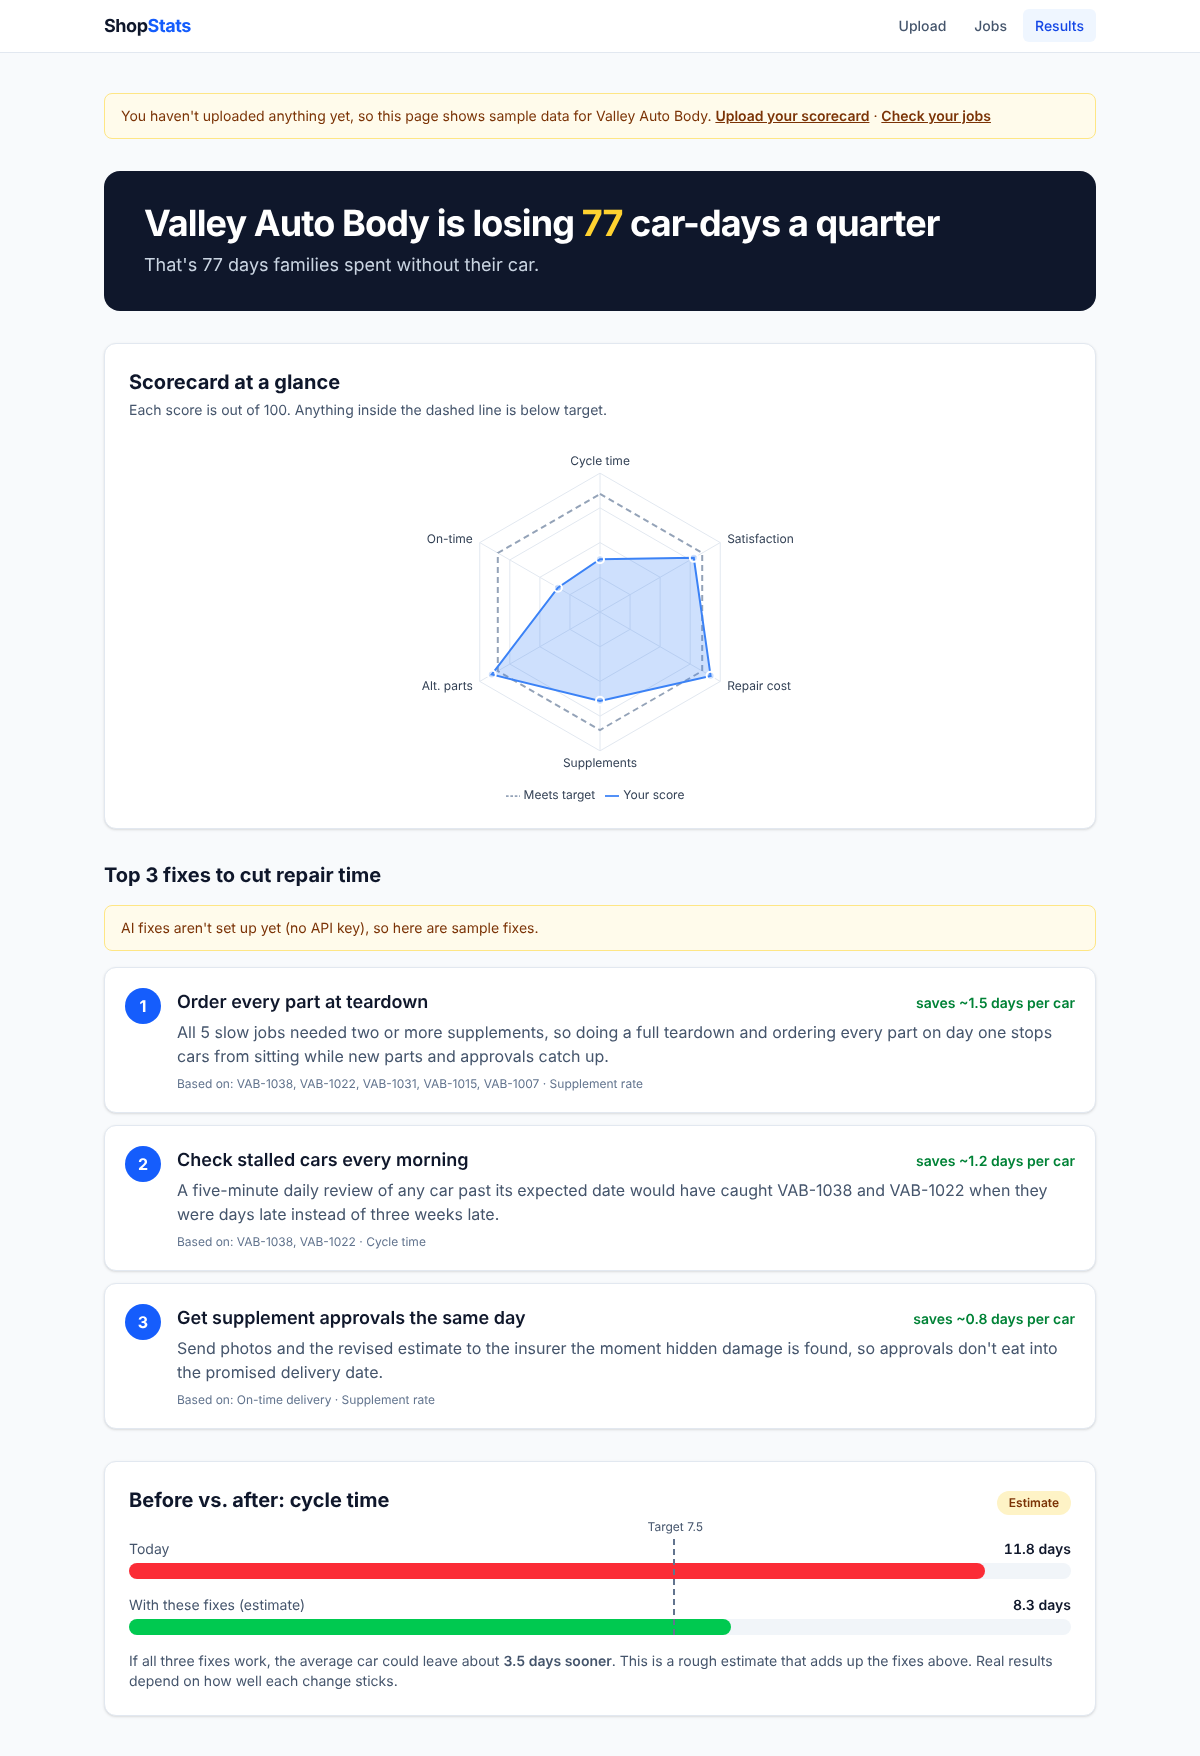
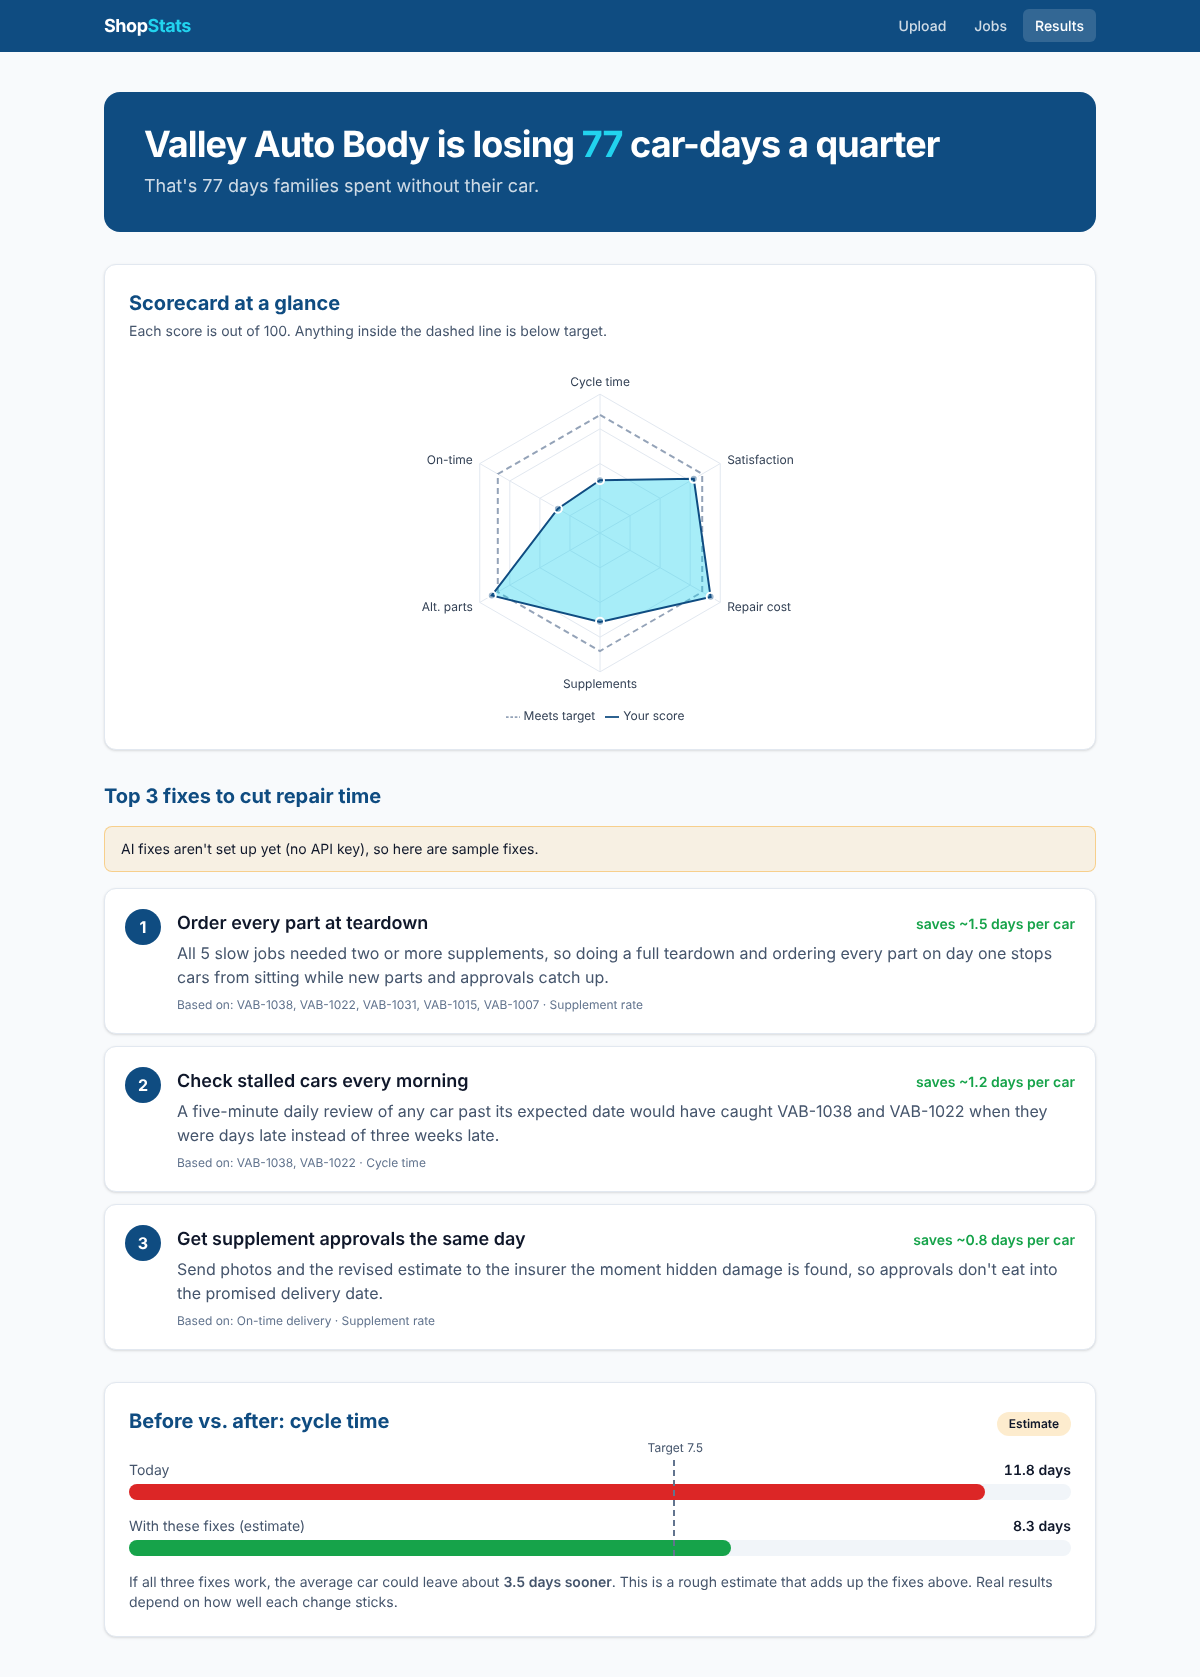
Unify app color scheme with Tailwind theme tokens
- Define primary, accent, danger, warning, success, page and ink once in
  app/globals.css (@theme static); classes and Recharts SVG both use them
- Nav, buttons and headings use primary; radar fill and banner highlight
  use accent; outliers and below-target use danger
- Metric cards get a status chip (Below target / Close / Meets target) and
  a status-colored bar; amber is never used as text color (2.1:1 on white)
- Mock scorecard keeps its insurer branding on purpose

Claude-Session: https://claude.ai/code/session_01JbLRywYRtfGEKdzAwmGt8E

diff --git a/app/results/page.tsx b/app/results/page.tsx
@@ -108,20 +108,20 @@ function SampleNote({ sampleScores, sampleJobs }: Pick<Inputs, "sampleScores" | 
 function Banner({ jobs }: { jobs: AnomalyResult | null }) {
   const days = jobs?.totalExtraDays ?? 0;
   return (
-    <section className="rounded-2xl bg-slate-900 px-6 py-8 text-white sm:px-10">
+    <section className="rounded-2xl bg-primary px-6 py-8 text-white sm:px-10">
       {days > 0 ? (
         <>
           <h1 className="text-3xl font-bold tracking-tight sm:text-4xl">
-            {SHOP_NAME} is losing <span className="text-amber-300">{days}</span> car-days a quarter
+            {SHOP_NAME} is losing <span className="text-accent">{days}</span> car-days a quarter
           </h1>
-          <p className="mt-2 text-lg text-slate-300">
+          <p className="mt-2 text-lg text-white/80">
             That&apos;s {days} days families spent without their car.
           </p>
         </>
       ) : (
         <>
           <h1 className="text-3xl font-bold tracking-tight sm:text-4xl">{SHOP_NAME}&apos;s results</h1>
-          <p className="mt-2 text-lg text-slate-300">No jobs ran unusually long. Here&apos;s how your scorecard looks.</p>
+          <p className="mt-2 text-lg text-white/80">No jobs ran unusually long. Here&apos;s how your scorecard looks.</p>
         </>
       )}
     </section>
@@ -131,13 +131,13 @@ function Banner({ jobs }: { jobs: AnomalyResult | null }) {
 function FixCard({ fix, rank }: { fix: Fix; rank: number }) {
   return (
     <li className="flex gap-4 rounded-xl border border-slate-200 bg-white p-5 shadow-sm">
-      <span className="flex h-9 w-9 shrink-0 items-center justify-center rounded-full bg-blue-600 font-bold text-white">
+      <span className="flex h-9 w-9 shrink-0 items-center justify-center rounded-full bg-primary font-bold text-white">
         {rank}
       </span>
       <div className="min-w-0 flex-1">
         <div className="flex flex-wrap items-baseline justify-between gap-x-4 gap-y-1">
-          <h3 className="text-lg font-semibold text-slate-900">{fix.title}</h3>
-          <span className="text-sm font-semibold whitespace-nowrap text-green-700">
+          <h3 className="text-lg font-semibold text-ink">{fix.title}</h3>
+          <span className="text-sm font-semibold whitespace-nowrap text-success">
             saves ~{fix.daysSaved} day{fix.daysSaved === 1 ? "" : "s"} per car
           </span>
         </div>
@@ -155,22 +155,22 @@ function BeforeAfter({ cycle, fixes }: { cycle: Metric; fixes: Fix[] }) {
   const projected = Math.round(Math.max(current * 0.5, current - saved) * 10) / 10;
   const scaleMax = Math.max(current, cycle.target) * 1.1;
   const rows = [
-    { label: "Today", value: current, color: "bg-red-500" },
-    { label: "With these fixes (estimate)", value: projected, color: "bg-green-500" },
+    { label: "Today", value: current, color: "bg-danger" },
+    { label: "With these fixes (estimate)", value: projected, color: "bg-success" },
   ];
 
   return (
     <section className="rounded-xl border border-slate-200 bg-white p-6 shadow-sm">
       <div className="flex flex-wrap items-baseline justify-between gap-2">
-        <h2 className="text-xl font-bold text-slate-900">Before vs. after: cycle time</h2>
-        <span className="rounded-full bg-amber-100 px-3 py-1 text-xs font-semibold text-amber-900">Estimate</span>
+        <h2 className="text-xl font-bold text-primary">Before vs. after: cycle time</h2>
+        <span className="rounded-full bg-warning/20 px-3 py-1 text-xs font-semibold text-ink">Estimate</span>
       </div>
       <div className="relative mt-6 space-y-4">
         {rows.map((r) => (
           <div key={r.label}>
             <div className="flex justify-between text-sm">
               <span className="text-slate-600">{r.label}</span>
-              <span className="font-semibold text-slate-900 tabular-nums">{r.value.toFixed(1)} days</span>
+              <span className="font-semibold text-ink tabular-nums">{r.value.toFixed(1)} days</span>
             </div>
             <div className="mt-1 h-4 rounded-full bg-slate-100">
               <div className={`h-full rounded-full ${r.color}`} style={{ width: `${(r.value / scaleMax) * 100}%` }} />
@@ -229,13 +229,13 @@ export default function ResultsPage() {
       <Banner jobs={inputs.jobs} />
 
       <section className="rounded-xl border border-slate-200 bg-white p-6 shadow-sm">
-        <h2 className="text-xl font-bold text-slate-900">Scorecard at a glance</h2>
+        <h2 className="text-xl font-bold text-primary">Scorecard at a glance</h2>
         <p className="mt-1 text-sm text-slate-600">Each score is out of 100. Anything inside the dashed line is below target.</p>
         <ScoreRadar metrics={inputs.metrics} />
       </section>
 
       <section>
-        <h2 className="text-xl font-bold text-slate-900">Top 3 fixes to cut repair time</h2>
+        <h2 className="text-xl font-bold text-primary">Top 3 fixes to cut repair time</h2>
         {!fixes ? (
           <div className="mt-4 rounded-xl border border-slate-200 bg-white p-6">
             <Spinner label="Asking AI for your top fixes… this takes about 10–20 seconds." />

diff --git a/app/jobs/page.tsx b/app/jobs/page.tsx
@@ -88,14 +88,14 @@ export default function JobsPage() {
 
   return (
     <main className="mx-auto max-w-5xl px-4 py-10">
-      <h1 className="text-3xl font-bold tracking-tight text-slate-900">Find the jobs that dragged on</h1>
+      <h1 className="text-3xl font-bold tracking-tight text-primary">Find the jobs that dragged on</h1>
       <p className="mt-2 text-slate-600">
         Upload a CSV of recent repair jobs. We compare each job&apos;s days in the shop to what its labor hours
         predict and flag the ones that took far longer.
       </p>
 
       <div className="mt-6 flex flex-wrap items-center gap-3">
-        <label className="cursor-pointer rounded-lg bg-blue-600 px-5 py-2.5 font-semibold text-white transition-colors hover:bg-blue-700">
+        <label className="cursor-pointer rounded-lg bg-primary px-5 py-2.5 font-semibold text-white transition-colors hover:bg-primary-hover">
           Upload jobs.csv
           <input
             type="file"
@@ -138,7 +138,7 @@ export default function JobsPage() {
               Analyzed {result.jobs.length} jobs from {source}
               {skipped > 0 && ` · skipped ${skipped} row${skipped === 1 ? "" : "s"} with missing numbers`}
             </p>
-            <p className="mt-1 text-2xl font-bold text-slate-900">{summary(result)}</p>
+            <p className="mt-1 text-2xl font-bold text-ink">{summary(result)}</p>
             <p className="mt-1 text-sm text-slate-600">
               A typical job here takes about {result.fit.baseDays} days plus{" "}
               {(result.fit.daysPerLaborHour * 10).toFixed(1)} days for every 10 labor hours.
@@ -146,14 +146,14 @@ export default function JobsPage() {
           </div>
 
           <div className="rounded-xl border border-slate-200 bg-white p-4 shadow-sm">
-            <h2 className="px-2 font-semibold text-slate-900">Labor hours vs. days in shop</h2>
+            <h2 className="px-2 font-semibold text-primary">Labor hours vs. days in shop</h2>
             <JobsScatter result={result} />
           </div>
 
           {result.flagged.length > 0 && (
             <div className="overflow-x-auto rounded-xl border border-slate-200 bg-white shadow-sm">
               <table className="w-full text-sm">
-                <caption className="px-4 pt-4 text-left font-semibold text-slate-900">Flagged jobs</caption>
+                <caption className="px-4 pt-4 text-left font-semibold text-primary">Flagged jobs</caption>
                 <thead>
                   <tr className="border-b border-slate-200 text-left text-xs text-slate-500 uppercase">
                     <th className="px-4 py-3 font-semibold">Job ID</th>
@@ -166,11 +166,11 @@ export default function JobsPage() {
                 <tbody>
                   {result.flagged.map((j) => (
                     <tr key={j.jobId} className="border-b border-slate-100 last:border-0">
-                      <td className="px-4 py-3 font-medium text-slate-900">{j.jobId}</td>
+                      <td className="px-4 py-3 font-medium text-ink">{j.jobId}</td>
                       <td className="px-4 py-3 text-right tabular-nums">{j.laborHours}</td>
                       <td className="px-4 py-3 text-right tabular-nums">{j.daysInShop}</td>
                       <td className="px-4 py-3 text-right tabular-nums text-slate-600">{j.expectedDays.toFixed(1)}</td>
-                      <td className="px-4 py-3 text-right font-semibold tabular-nums text-red-700">
+                      <td className="px-4 py-3 text-right font-semibold tabular-nums text-danger">
                         +{j.extraDays.toFixed(1)}
                       </td>
                     </tr>
@@ -181,7 +181,7 @@ export default function JobsPage() {
           )}
 
           <div className="flex justify-end">
-            <Link href="/results" className="text-sm font-semibold text-blue-600 hover:text-blue-800">
+            <Link href="/results" className="text-sm font-semibold text-primary hover:text-primary-hover">
               Next: see your results →
             </Link>
           </div>

diff --git a/app/upload/page.tsx b/app/upload/page.tsx
@@ -49,7 +49,7 @@ export default function UploadPage() {
 
   return (
     <main className="mx-auto max-w-5xl px-4 py-10">
-      <h1 className="text-3xl font-bold tracking-tight text-slate-900">Upload your insurer scorecard</h1>
+      <h1 className="text-3xl font-bold tracking-tight text-primary">Upload your insurer scorecard</h1>
       <p className="mt-2 text-slate-600">
         Drop in a photo, screenshot, or PDF of your scorecard. We&apos;ll score each metric and explain it in plain
         English.
@@ -67,18 +67,18 @@ export default function UploadPage() {
           pick(e.dataTransfer.files[0]);
         }}
         className={`mt-6 flex cursor-pointer flex-col items-center justify-center rounded-xl border-2 border-dashed px-6 py-12 text-center transition-colors ${
-          dragging ? "border-blue-500 bg-blue-50" : "border-slate-300 bg-white hover:border-slate-400"
+          dragging ? "border-primary bg-primary/5" : "border-slate-300 bg-white hover:border-slate-400"
         }`}
       >
         <input type="file" accept={ACCEPT} className="sr-only" onChange={(e) => pick(e.target.files?.[0])} />
         {file ? (
           <>
-            <p className="font-medium text-slate-900">{file.name}</p>
+            <p className="font-medium text-ink">{file.name}</p>
             <p className="mt-1 text-sm text-slate-500">{(file.size / 1024).toFixed(0)} KB · click to choose another</p>
           </>
         ) : (
           <>
-            <p className="font-medium text-slate-900">Drag a file here, or click to choose</p>
+            <p className="font-medium text-ink">Drag a file here, or click to choose</p>
             <p className="mt-1 text-sm text-slate-500">PNG, JPG, WebP, GIF, or PDF · up to 10 MB</p>
           </>
         )}
@@ -88,7 +88,7 @@ export default function UploadPage() {
         <button
           onClick={submit}
           disabled={!file || loading}
-          className="rounded-lg bg-blue-600 px-5 py-2.5 font-semibold text-white transition-colors hover:bg-blue-700 disabled:cursor-not-allowed disabled:bg-slate-300"
+          className="rounded-lg bg-primary px-5 py-2.5 font-semibold text-white transition-colors hover:bg-primary-hover disabled:cursor-not-allowed disabled:bg-slate-300"
         >
           Score my scorecard
         </button>
@@ -109,8 +109,8 @@ export default function UploadPage() {
             </div>
           )}
           <div className="flex items-baseline justify-between">
-            <h2 className="text-xl font-bold text-slate-900">Your scores</h2>
-            <Link href="/jobs" className="text-sm font-semibold text-blue-600 hover:text-blue-800">
+            <h2 className="text-xl font-bold text-primary">Your scores</h2>
+            <Link href="/jobs" className="text-sm font-semibold text-primary hover:text-primary-hover">
               Next: check your jobs →
             </Link>
           </div>

diff --git a/components/MetricCard.tsx b/components/MetricCard.tsx
@@ -1,35 +1,35 @@
-import { formatValue, meetsTarget } from "@/lib/format";
+import { formatValue } from "@/lib/format";
+import { metricStatus, STATUS_STYLES } from "@/lib/status";
 import type { Metric } from "@/lib/types";
 
-function scoreColor(score: number) {
-  if (score >= 85) return { bar: "bg-green-500", text: "text-green-700" };
-  if (score >= 65) return { bar: "bg-amber-500", text: "text-amber-700" };
-  return { bar: "bg-red-500", text: "text-red-700" };
-}
-
 export default function MetricCard({ metric }: { metric: Metric }) {
-  const ok = meetsTarget(metric);
-  const color = scoreColor(metric.score);
+  const status = metricStatus(metric);
+  const style = STATUS_STYLES[status];
 
   return (
     <div className="flex flex-col rounded-xl border border-slate-200 bg-white p-5 shadow-sm">
       <div className="flex items-start justify-between gap-3">
-        <h3 className="font-semibold text-slate-900">{metric.label}</h3>
-        <span className={`text-2xl font-bold tabular-nums ${color.text}`}>{metric.score}</span>
+        <div>
+          <h3 className="font-semibold text-ink">{metric.label}</h3>
+          <span className={`mt-1 inline-block rounded-full px-2 py-0.5 text-xs font-semibold ${style.chip}`}>
+            {style.label}
+          </span>
+        </div>
+        <span className="text-2xl font-bold text-ink tabular-nums">{metric.score}</span>
       </div>
-      <div className="mt-2 h-2 overflow-hidden rounded-full bg-slate-100">
-        <div className={`h-full ${color.bar}`} style={{ width: `${metric.score}%` }} />
+      <div className="mt-3 h-2 overflow-hidden rounded-full bg-slate-100">
+        <div className={`h-full ${style.bar}`} style={{ width: `${metric.score}%` }} />
       </div>
       <dl className="mt-3 flex gap-6 text-sm">
         <div>
           <dt className="text-slate-500">You</dt>
-          <dd className={`font-semibold ${ok ? "text-slate-900" : "text-red-700"}`}>
+          <dd className={`font-semibold ${status === "below" ? "text-danger" : "text-ink"}`}>
             {formatValue(metric.shopValue, metric.unit)}
           </dd>
         </div>
         <div>
           <dt className="text-slate-500">Target</dt>
-          <dd className="font-semibold text-slate-900">{formatValue(metric.target, metric.unit)}</dd>
+          <dd className="font-semibold text-ink">{formatValue(metric.target, metric.unit)}</dd>
         </div>
       </dl>
       <p className="mt-3 text-sm leading-relaxed text-slate-600">{metric.explanation}</p>

diff --git a/components/ScoreRadar.tsx b/components/ScoreRadar.tsx
@@ -23,7 +23,9 @@ const SHORT_LABELS: Record<MetricKey, string> = {
 
 /** Score a metric gets for just meeting its target (see the scoring rubric in /api/score). */
 const TARGET_SCORE = 85;
-const SHOP = "#3b82f6"; // blue-500
+// Theme tokens from app/globals.css. Accent is too light for a line on white, so it only fills.
+const OUTLINE = "var(--color-primary)";
+const FILL = "var(--color-accent)";
 
 export default function ScoreRadar({ metrics }: { metrics: Metric[] }) {
   const data = metrics.map((m) => ({ metric: SHORT_LABELS[m.key], score: m.score, target: TARGET_SCORE }));
@@ -48,11 +50,11 @@ export default function ScoreRadar({ metrics }: { metrics: Metric[] }) {
           <Radar
             name="Your score"
             dataKey="score"
-            stroke={SHOP}
+            stroke={OUTLINE}
             strokeWidth={2}
-            fill={SHOP}
-            fillOpacity={0.25}
-            dot={{ r: 4, fill: SHOP, stroke: "#fff", strokeWidth: 2 }}
+            fill={FILL}
+            fillOpacity={0.4}
+            dot={{ r: 4, fill: OUTLINE, stroke: "#fff", strokeWidth: 2 }}
             isAnimationActive={false}
           />
           <Tooltip formatter={(value) => [`${value} / 100`]} />

diff --git a/components/Nav.tsx b/components/Nav.tsx
@@ -17,10 +17,10 @@ export default function Nav() {
   if (HIDDEN_ON.includes(pathname)) return null;
 
   return (
-    <header className="border-b border-slate-200 bg-white">
+    <header className="bg-primary">
       <nav className="mx-auto flex max-w-5xl items-center justify-between px-4 py-3">
-        <Link href="/" className="text-lg font-bold tracking-tight text-slate-900">
-          Shop<span className="text-blue-600">Stats</span>
+        <Link href="/" className="text-lg font-bold tracking-tight text-white">
+          Shop<span className="text-accent">Stats</span>
         </Link>
         <ul className="flex gap-1 text-sm font-medium">
           {links.map(({ href, label }) => {
@@ -30,7 +30,7 @@ export default function Nav() {
                 <Link
                   href={href}
                   className={`rounded-md px-3 py-2 transition-colors ${
-                    active ? "bg-blue-50 text-blue-700" : "text-slate-600 hover:bg-slate-100 hover:text-slate-900"
+                    active ? "bg-white/15 text-white" : "text-white/80 hover:bg-white/10 hover:text-white"
                   }`}
                 >
                   {label}

diff --git a/components/JobsScatter.tsx b/components/JobsScatter.tsx
@@ -15,8 +15,9 @@ import {
 } from "recharts";
 import type { AnomalyResult, ScoredJob } from "@/lib/anomaly";
 
-const NORMAL = "#3b82f6"; // blue-500
-const OUTLIER = "#dc2626"; // red-600
+// Theme tokens from app/globals.css.
+const NORMAL = "var(--color-primary)";
+const OUTLIER = "var(--color-danger)";
 const INK_MUTED = "#64748b"; // slate-500
 
 function JobTooltip({ active, payload }: { active?: boolean; payload?: { payload: ScoredJob }[] }) {
@@ -24,9 +25,9 @@ function JobTooltip({ active, payload }: { active?: boolean; payload?: { payload
   if (!active || !job) return null;
   return (
     <div className="rounded-lg border border-slate-200 bg-white px-3 py-2 text-xs text-slate-700 shadow-md">
-      <p className="font-semibold text-slate-900">
+      <p className="font-semibold text-ink">
         {job.jobId}
-        {job.isOutlier && <span className="ml-2 font-bold text-red-700">Outlier</span>}
+        {job.isOutlier && <span className="ml-2 font-bold text-danger">Outlier</span>}
       </p>
       <p>{job.laborHours} labor hours</p>
       <p>

diff --git a/app/globals.css b/app/globals.css
@@ -1,11 +1,23 @@
 @import "tailwindcss";
 
-:root {
-  --background: #f8fafc;
-  --foreground: #0f172a;
+/*
+ * ShopStats color tokens — the single source for every app page and chart.
+ * Tailwind classes: bg-primary, text-danger, border-success/30, etc.
+ * Charts (Recharts SVG) reference the same tokens as var(--color-*).
+ * "static" keeps every token emitted even if no class uses it, so charts can rely on it.
+ */
+@theme static {
+  --color-primary: #0f4c81;
+  --color-primary-hover: #0d3f6a;
+  --color-accent: #22d3ee;
+  --color-danger: #dc2626; /* below target, outliers */
+  --color-warning: #f59e0b; /* slightly below target */
+  --color-success: #16a34a; /* meets target */
+  --color-page: #f8fafc;
+  --color-ink: #0f172a;
 }
 
 body {
-  background: var(--background);
-  color: var(--foreground);
+  background: var(--color-page);
+  color: var(--color-ink);
 }

diff --git a/lib/status.ts b/lib/status.ts
@@ -1,0 +1,19 @@
+import { meetsTarget } from "./format";
+import type { Metric } from "./types";
+
+export type Status = "meets" | "close" | "below";
+
+/** Scores 65–84 mean "slightly below target" in the /api/score rubric. */
+const CLOSE_SCORE = 65;
+
+export function metricStatus(m: Metric): Status {
+  if (meetsTarget(m)) return "meets";
+  return m.score >= CLOSE_SCORE ? "close" : "below";
+}
+
+// Amber is too light for text on white, so the "close" chip uses ink text on an amber tint.
+export const STATUS_STYLES: Record<Status, { label: string; bar: string; chip: string }> = {
+  meets: { label: "Meets target", bar: "bg-success", chip: "bg-success/10 text-success" },
+  close: { label: "Close", bar: "bg-warning", chip: "bg-warning/20 text-ink" },
+  below: { label: "Below target", bar: "bg-danger", chip: "bg-danger/10 text-danger" },
+};

diff --git a/components/Spinner.tsx b/components/Spinner.tsx
@@ -1,7 +1,7 @@
 export default function Spinner({ label }: { label?: string }) {
   return (
     <div role="status" className="flex items-center gap-3 text-slate-600">
-      <span className="h-5 w-5 animate-spin rounded-full border-2 border-slate-300 border-t-blue-600" />
+      <span className="h-5 w-5 animate-spin rounded-full border-2 border-slate-300 border-t-primary" />
       {label && <span className="text-sm">{label}</span>}
     </div>
   );

diff --git a/components/Notice.tsx b/components/Notice.tsx
@@ -1,6 +1,6 @@
 const styles = {
-  error: "border-red-200 bg-red-50 text-red-800",
-  info: "border-amber-200 bg-amber-50 text-amber-900",
+  error: "border-danger/30 bg-danger/5 text-danger",
+  info: "border-warning/40 bg-warning/10 text-ink",
 };
 
 export default function Notice({ kind, children }: { kind: keyof typeof styles; children: React.ReactNode }) {
